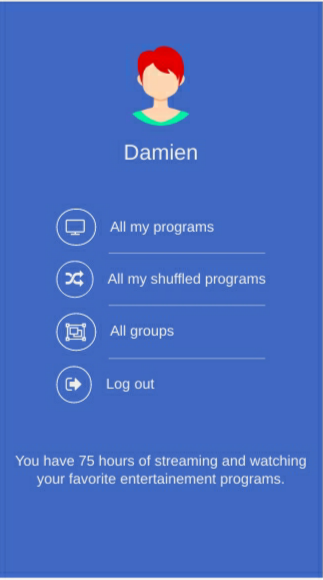
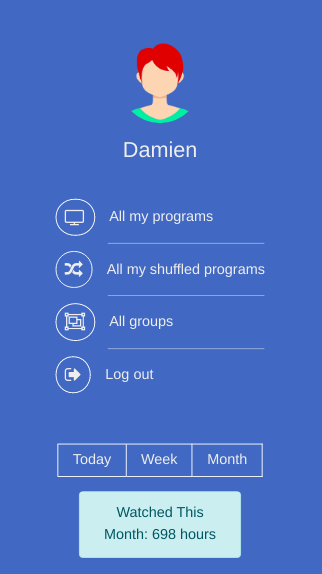
added style for navbar in user profile

Changed region(s): [[0.0, 0.0, 1.0, 1.0], [0.1553, 0.3554, 0.8385, 0.7108], [0.3727, 0.0592, 0.6211, 0.2962]]

diff --git a/app/assets/stylesheets/application.css b/app/assets/stylesheets/application.css
@@ -65,6 +65,28 @@ a:hover {
   margin-top: 0;
 }
 
+.resume h6 {
+  border: 1px solid #fff;
+  border-left: none;
+}
+
+.resume :first-child {
+  border-left: 1px solid #fff;
+}
+
+.resume h6:hover {
+  background-color: #235a99;
+  border-color:  #235a99;
+}
+
+.resume a:hover {
+  color:#e8e8ec;
+}
+
+.resume a {
+  border: none !important;
+}
+
 /*Programs list*/
 .title {
   font-size: x-large;

diff --git a/app/controllers/users_controller.rb b/app/controllers/users_controller.rb
@@ -1,5 +1,7 @@
 class UsersController < ApplicationController
   before_action :require_login, except: %i[new create]
+  before_action :set_programs, only: [:details]
+  before_action :set_caller, only: [:details]
 
   def show
     @user = User.find(params[:id])
@@ -44,21 +46,34 @@ class UsersController < ApplicationController
   end
 
   def details
-    @user = current_user
-    @day = @user.programs.daily.total_hours
-    @week = @user.programs.weekly.total_hours
-    @month = @user.programs.monthly.total_hours
-    @year = @user.programs.yearly.total_hours
+    @day = @progs.daily.total_hours.to_s
+    @week = @progs.weekly.total_hours
+    @month = @progs.monthly.total_hours
+    @year = @progs.yearly.total_hours
 
-    flash[:notice] = "watched today: #{@day} hours"
-    flash[:notice] = "watched this week: #{@week} hours"
-    flash[:notice] = "watched this month: #{@month} hours"
-    redirect_to @user
+    if @caller == 'day'
+      flash[:notice] = "Watched Today: #{@day} hours"
+      redirect_to current_user
+    elsif @caller == 'week'
+      flash[:notice] = "Watched This Week: #{@week} hours"
+      redirect_to current_user
+    else
+      flash[:notice] = "Watched This Month: #{@month} hours"
+      redirect_to current_user
+    end
   end
 
   private
 
   def user_params
     params.require(:user).permit(:name, :email, :password, :avatar)
+  end
+
+  def set_programs
+    @progs = current_user.programs
+  end
+
+  def set_caller
+    @caller = params[:caller]
   end
 end

diff --git a/README.md b/README.md
@@ -1,6 +1,6 @@
 # Wotchd - a mobile application which groups your hours spent on watching entertainement programs during the day, week or the month.
 
-<img src="app/assets/images/wotchd-logo.png" alt="Wotchd" width="250" height="150">
+<img src="app/assets/images/wotchd-logo.png" alt="Wotchd" width="260" height="130">
 This is the Capstone project for the Ruby on Rails Course
 
 <hr />
@@ -218,7 +218,7 @@ You can see it working [![Heroku](https://pyheroku-badge.herokuapp.com/?app=bloo
   - You can see all existing groups by clicking on the link 'All group' in the main page  
   - You can create a new group of programs by clicking on the green button in the bottom of the page ('All groups page')  
   - you can edit a group by clicking on the button in the top right corner of the group's show page  
-
+- Click in the small navbar in the user profile page to have a resume of your hours watched for the current day, the week (the last 7 days), and the month (the last 30 days)  
 <hr/>
 
 ## System Requierments
